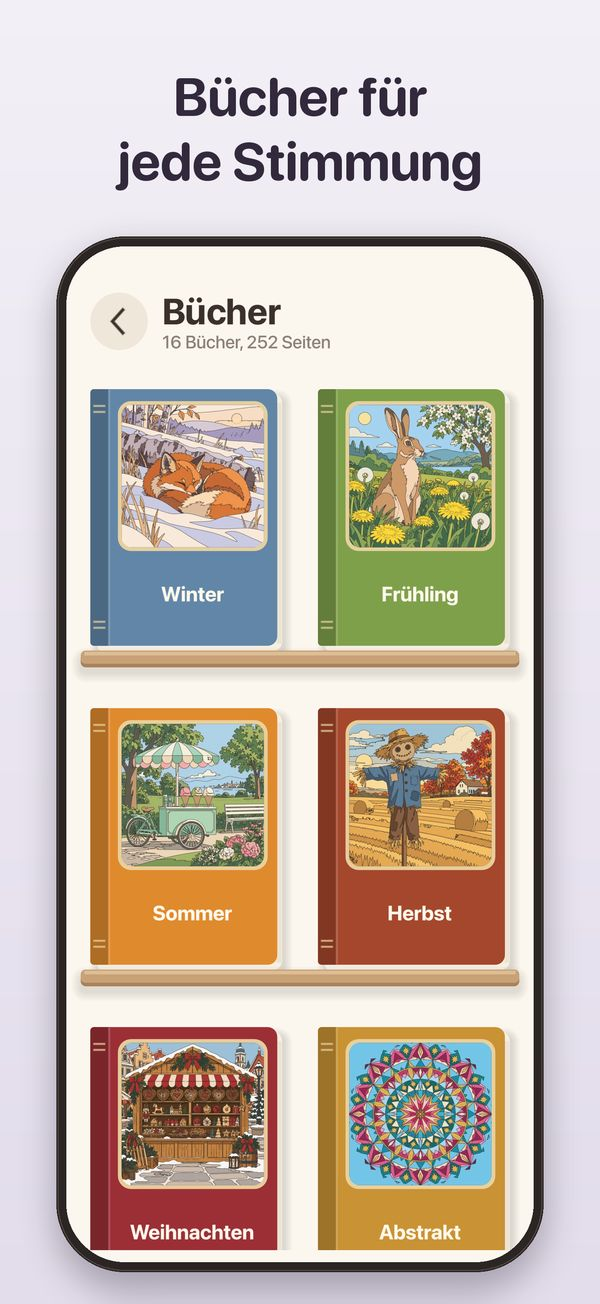
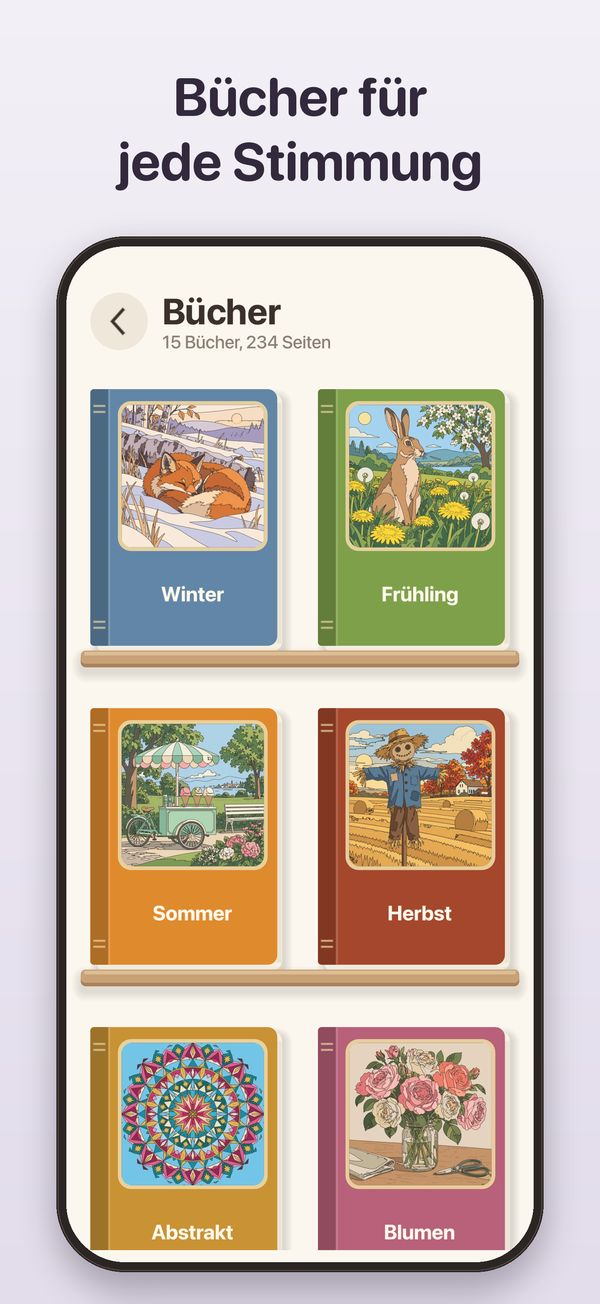
Advent calendar replaces the Christmas book: 15 books, new section and FAQ, new screenshots

diff --git a/de/index.html b/de/index.html
@@ -16,7 +16,7 @@
 <meta property="og:type" content="website">
 <meta property="og:site_name" content="Cavebeer Entertainment">
 <meta property="og:title" content="Colorwall: Cozy Coloring | Malen nach Zahlen ohne Werbung">
-<meta property="og:description" content="Malen nach Zahlen für Erwachsene, ganz ohne Werbung: realistische Motive in 16 Büchern, vier Gratis-Bücher zu den Jahreszeiten und jeden Tag ein neues Gratis-Bild.">
+<meta property="og:description" content="Malen nach Zahlen für Erwachsene, ganz ohne Werbung: realistische Motive in 15 Büchern, vier Gratis-Bücher zu den Jahreszeiten, jeden Tag ein neues Gratis-Bild und ein Adventskalender zum Ausmalen.">
 <meta property="og:url" content="https://mario-coder-apps.github.io/colorwall-legal/de/">
 <meta property="og:image" content="https://mario-coder-apps.github.io/colorwall-legal/de/og.jpg">
 <meta property="og:image:width" content="1200">
@@ -26,7 +26,7 @@
 <meta property="og:locale:alternate" content="en_US">
 <meta name="twitter:card" content="summary_large_image">
 <meta name="twitter:title" content="Colorwall: Cozy Coloring | Malen nach Zahlen ohne Werbung">
-<meta name="twitter:description" content="Malen nach Zahlen für Erwachsene, ganz ohne Werbung: realistische Motive in 16 Büchern, vier Gratis-Bücher zu den Jahreszeiten und jeden Tag ein neues Gratis-Bild.">
+<meta name="twitter:description" content="Malen nach Zahlen für Erwachsene, ganz ohne Werbung: realistische Motive in 15 Büchern, vier Gratis-Bücher zu den Jahreszeiten, jeden Tag ein neues Gratis-Bild und ein Adventskalender zum Ausmalen.">
 <meta name="twitter:image" content="https://mario-coder-apps.github.io/colorwall-legal/de/og.jpg">
 <meta name="twitter:image:alt" content="Das Colorwall-Icon und der Schriftzug neben drei iPhone-Screenshots">
 <!-- ld:start -->
@@ -40,11 +40,11 @@
  "operatingSystem": "iOS",
  "softwareRequirements": "iOS 17.0 oder neuer",
  "applicationCategory": "EntertainmentApplication",
- "description": "Colorwall ist Malen nach Zahlen ohne Werbung für Erwachsene auf dem iPhone: realistische, detailreiche Bilder in 16 Büchern, vier Gratis-Bücher zu den Jahreszeiten, jeden Tag ein Gratis-Bild und jede Woche ein größeres. Kein Konto, kein Tracking.",
+ "description": "Colorwall ist Malen nach Zahlen ohne Werbung für Erwachsene auf dem iPhone: realistische, detailreiche Bilder in 15 Büchern, vier Gratis-Bücher zu den Jahreszeiten, jeden Tag ein Gratis-Bild, jede Woche ein größeres und im Dezember ein Adventskalender zum Ausmalen, gratis. Kein Konto, kein Tracking.",
  "url": "https://mario-coder-apps.github.io/colorwall-legal/de/",
  "image": "https://mario-coder-apps.github.io/colorwall-legal/icon.png",
  "screenshot": [
-  "https://mario-coder-apps.github.io/colorwall-legal/img/de-fertig-weihnachtsmarkt-stand.jpg",
+  "https://mario-coder-apps.github.io/colorwall-legal/img/de-fertig-wintermarkt.jpg",
   "https://mario-coder-apps.github.io/colorwall-legal/img/de-malen-nach-zahlen-schmetterling-mandala.jpg",
   "https://mario-coder-apps.github.io/colorwall-legal/img/de-zoom-hochlandrind.jpg",
   "https://mario-coder-apps.github.io/colorwall-legal/img/de-aquarell-kolibri.jpg",
@@ -103,7 +103,15 @@
    "name": "Ist Colorwall kostenlos?",
    "acceptedAnswer": {
     "@type": "Answer",
-    "text": "Colorwall kannst du gratis laden. Die vier Jahreszeiten-Bücher (Winter, Frühling, Sommer und Herbst) sind komplett gratis, ebenso das erste leichte und das erste mittlere Bild jedes weiteren Buchs, jeden Tag ein neues Bild, das Bild der Woche und die Malstile Flach und Buntstift."
+    "text": "Colorwall kannst du gratis laden. Die vier Jahreszeiten-Bücher (Winter, Frühling, Sommer und Herbst) sind komplett gratis, ebenso das erste leichte und das erste mittlere Bild jedes weiteren Buchs, jeden Tag ein neues Bild, das Bild der Woche, der Adventskalender und die Malstile Flach und Buntstift."
+   }
+  },
+  {
+   "@type": "Question",
+   "name": "Ist der Adventskalender kostenlos?",
+   "acceptedAnswer": {
+    "@type": "Answer",
+    "text": "Ja. Der Adventskalender ist für alle gratis, ohne Colorwall Plus und ohne Buchkauf. Vom 1. bis 24. Dezember geht jeden Tag ein Türchen auf, ein verpasstes kannst du noch bis zum 6. Januar öffnen, und jedes Bild, das du öffnest, gehört für immer dir."
    }
   },
   {
@@ -223,7 +231,7 @@
 <section class="card" id="screenshots">
   <h2>Colorwall auf dem iPhone: Screenshots</h2>
   <ul class="shots">
-    <li><img src="../img/de-fertig-weihnachtsmarkt-stand.jpg" width="600" height="1304" loading="lazy" alt="Ein fertig ausgemalter Weihnachtsmarktstand mit den Knöpfen Zeitraffer, Aufhängen und Teilen"></li>
+    <li><img src="../img/de-fertig-wintermarkt.jpg" width="600" height="1304" loading="lazy" alt="Ein fertig ausgemalter Wintermarkt aus dem kostenlosen Winterbuch, mit den Knöpfen Zeitraffer, Aufhängen und Teilen"></li>
     <li><img src="../img/de-malen-nach-zahlen-schmetterling-mandala.jpg" width="600" height="1304" loading="lazy" alt="Ein Schmetterlings-Mandala, zur Hälfte nach Zahlen ausgemalt, darunter die nummerierte Farbpalette"></li>
     <li><img src="../img/de-zoom-hochlandrind.jpg" width="600" height="1304" loading="lazy" alt="Ein Hochlandrind, vierfach vergrößert: Die feinen Linien seiner Stirnlocke bleiben gestochen scharf"></li>
     <li><img src="../img/de-aquarell-kolibri.jpg" width="600" height="1304" loading="lazy" alt="Ein Kolibri an einer roten Hibiskusblüte im Malstil Aquarell"></li>
@@ -253,25 +261,39 @@
 </section>
 
 <section class="card" id="buecher">
-  <h2>16 Malbücher für Erwachsene</h2>
-  <p>252 Bilder in 16 Büchern, dazu ein Bild des Tages und ein Bild der Woche.</p>
+  <h2>15 Malbücher für Erwachsene</h2>
+  <p>234 Bilder in 15 Büchern, dazu ein Bild des Tages, ein Bild der Woche und im Dezember ein Adventskalender mit 24
+  weiteren.</p>
   <h3>Vier Gratis-Bücher zu den Jahreszeiten</h3>
   <p>Winter, Frühling, Sommer und Herbst sind komplett gratis, mit je neun Bildern von Leicht bis Schwer.</p>
-  <h3>Zwölf Themenbücher</h3>
-  <p>Weihnachten, Abstrakt, Botanik · Blumen, Botanik · Bäume, Landschaften, Japan, Tiere, Ozean, Mandalas, Gemütliche
-  Gassen, Café &amp; Süßes und Schneeflocken, mit je achtzehn Bildern. Das erste leichte und das erste mittlere Bild
+  <h3>Elf Themenbücher</h3>
+  <p>Abstrakt, Botanik · Blumen, Botanik · Bäume, Landschaften, Japan, Tiere, Ozean, Mandalas, Gemütliche Gassen,
+  Café &amp; Süßes und Schneeflocken, mit je achtzehn Bildern. Das erste leichte und das erste mittlere Bild
   jedes Buchs kannst du gratis ausprobieren.</p>
   <h3>Weihnachten und Winter ausmalen</h3>
-  <p>Im kostenlosen Winter-Buch warten heiße Schokolade, ein schlafender Fuchs und eine Berghütte. Das Weihnachtsbuch
-  bringt Lebkuchenhaus, Nussknacker und Dampfzug, und in Schneeflocken ist jede Seite eine große Schneeflocke, die du
-  wie ein Mandala ausmalst.</p>
+  <p>Im kostenlosen Winter-Buch warten heiße Schokolade, ein schlafender Fuchs und eine Berghütte, und in Schneeflocken
+  ist jede Seite eine große Schneeflocke, die du wie ein Mandala ausmalst. Im Dezember öffnet der kostenlose
+  <a href="#advent">Adventskalender</a> jeden Tag ein Türchen; dahinter warten unter anderem ein Lebkuchenhaus, ein
+  Nussknacker und ein Dampfzug.</p>
 </section>
 
 <section class="card" id="taeglich">
   <h2>Jeden Tag ein Gratis-Bild und jede Woche ein größeres</h2>
   <p>Jeden Tag wartet ein neues Bild auf dich, gratis: gemütliche Alltagsszenen wie Tee am Fenster oder eine Leseecke.
   Jede Woche kommt ein größeres Bild in Schwer dazu, etwa ein Großsegler. Öffnest du ein Bild an seinem Tag oder in
-  seiner Woche, gehört es für immer dir.</p>
+  seiner Woche, gehört es für immer dir. Vom 1. bis 24. Dezember tritt das Türchen des Adventskalenders an die Stelle
+  des Bilds des Tages.</p>
+</section>
+
+<section class="card" id="advent">
+  <h2>Adventskalender zum Ausmalen: hinter jedem Türchen ein Gratis-Bild</h2>
+  <p>Ab dem 24. November hängt ein Adventskalender auf deinem Startbildschirm, seine 24 Türchen noch geschlossen. Vom
+  1. bis 24. Dezember geht jeden Tag ein Türchen auf, nach dem Datum deines iPhones, und dahinter wartet ein Winter-
+  oder Weihnachtsbild zum Ausmalen: eine Schneeeule, ein Lebkuchenhaus, ein Weihnachtsmarktstand und am 24. ein
+  prächtiger Weihnachtsbaum mit Geschenken.</p>
+  <p>Die Bilder wachsen mit dem Advent: Türchen 1 bis 8 sind leicht, 9 bis 16 mittel und 17 bis 24 schwer. In diesen
+  Tagen tritt das Türchen des Tages an die Stelle des Bilds des Tages. Ein Türchen verpasst? Du kannst es noch bis zum
+  6. Januar öffnen, und jedes Bild, das du öffnest, gehört für immer dir. Der Adventskalender ist für alle gratis.</p>
 </section>
 
 <section class="card" id="malstile">
@@ -303,7 +325,11 @@
   <h3>Ist Colorwall kostenlos?</h3>
   <p>Colorwall kannst du gratis laden. Die vier Jahreszeiten-Bücher (Winter, Frühling, Sommer und Herbst) sind komplett
   gratis, ebenso das erste leichte und das erste mittlere Bild jedes weiteren Buchs, jeden Tag ein neues Bild, das Bild
-  der Woche und die Malstile Flach und Buntstift.</p>
+  der Woche, der Adventskalender und die Malstile Flach und Buntstift.</p>
+  <h3>Ist der Adventskalender kostenlos?</h3>
+  <p>Ja. Der Adventskalender ist für alle gratis, ohne Colorwall Plus und ohne Buchkauf. Vom 1. bis 24. Dezember geht
+  jeden Tag ein Türchen auf, ein verpasstes kannst du noch bis zum 6. Januar öffnen, und jedes Bild, das du öffnest,
+  gehört für immer dir.</p>
   <h3>Was enthält Colorwall Plus, und was kostet es?</h3>
   <p>Colorwall Plus öffnet alle Bücher und alle Malstile, auch Aquarell und Gemalt: 4,99 € im Monat, 29,99 € im Jahr
   mit 7 Tagen Gratis-Test für neue Abonnenten oder einmalig 59,99 € für immer. Der App Store zeigt dir den Preis in

diff --git a/index.html b/index.html
@@ -17,7 +17,7 @@
 <meta property="og:type" content="website">
 <meta property="og:site_name" content="Cavebeer Entertainment">
 <meta property="og:title" content="Colorwall: Cozy Coloring | Ad-free paint by number for iPhone">
-<meta property="og:description" content="Paint by number for adults, with no ads at all: realistic pictures in 16 books, four free season books and a new free picture every day.">
+<meta property="og:description" content="Paint by number for adults, with no ads at all: realistic pictures in 15 books, four free season books, a new free picture every day and a free Advent calendar.">
 <meta property="og:url" content="https://mario-coder-apps.github.io/colorwall-legal/">
 <meta property="og:image" content="https://mario-coder-apps.github.io/colorwall-legal/og.jpg">
 <meta property="og:image:width" content="1200">
@@ -27,7 +27,7 @@
 <meta property="og:locale:alternate" content="de_DE">
 <meta name="twitter:card" content="summary_large_image">
 <meta name="twitter:title" content="Colorwall: Cozy Coloring | Ad-free paint by number for iPhone">
-<meta name="twitter:description" content="Paint by number for adults, with no ads at all: realistic pictures in 16 books, four free season books and a new free picture every day.">
+<meta name="twitter:description" content="Paint by number for adults, with no ads at all: realistic pictures in 15 books, four free season books, a new free picture every day and a free Advent calendar.">
 <meta name="twitter:image" content="https://mario-coder-apps.github.io/colorwall-legal/og.jpg">
 <meta name="twitter:image:alt" content="The Colorwall icon and wordmark next to three iPhone screenshots">
 <!-- ld:start -->
@@ -41,11 +41,11 @@
  "operatingSystem": "iOS",
  "softwareRequirements": "iOS 17.0 or later",
  "applicationCategory": "EntertainmentApplication",
- "description": "Colorwall is an ad-free paint by number app for adults on iPhone: realistic, detailed pictures in 16 books, four free season books, a free picture every day and a bigger one every week. No account, no tracking.",
+ "description": "Colorwall is an ad-free paint by number app for adults on iPhone: realistic, detailed pictures in 15 books, four free season books, a free picture every day, a bigger one every week and a free Advent calendar in December. No account, no tracking.",
  "url": "https://mario-coder-apps.github.io/colorwall-legal/",
  "image": "https://mario-coder-apps.github.io/colorwall-legal/icon.png",
  "screenshot": [
-  "https://mario-coder-apps.github.io/colorwall-legal/img/en-finished-christmas-market-stall.jpg",
+  "https://mario-coder-apps.github.io/colorwall-legal/img/en-finished-winter-market.jpg",
   "https://mario-coder-apps.github.io/colorwall-legal/img/en-color-by-number-butterfly-mandala.jpg",
   "https://mario-coder-apps.github.io/colorwall-legal/img/en-zoom-highland-cow.jpg",
   "https://mario-coder-apps.github.io/colorwall-legal/img/en-watercolor-hummingbird.jpg",
@@ -104,7 +104,15 @@
    "name": "Is Colorwall free?",
    "acceptedAnswer": {
     "@type": "Answer",
-    "text": "Colorwall is free to download. The four season books (Winter, Spring, Summer and Autumn) are completely free, and so are the first Easy and the first Medium picture of every other book, a new picture every day, the picture of the week and the painting styles Flat and Colored pencil."
+    "text": "Colorwall is free to download. The four season books (Winter, Spring, Summer and Autumn) are completely free, and so are the first Easy and the first Medium picture of every other book, a new picture every day, the picture of the week, the Advent calendar and the painting styles Flat and Colored pencil."
+   }
+  },
+  {
+   "@type": "Question",
+   "name": "Is the Advent calendar free?",
+   "acceptedAnswer": {
+    "@type": "Answer",
+    "text": "Yes. The Advent calendar is free for everyone, without Colorwall Plus or a book purchase. From 1 to 24 December one door opens each day, a missed door can still be opened until 6 January, and every picture you open stays yours for good."
    }
   },
   {
@@ -223,7 +231,7 @@
 <section class="card" id="screenshots">
   <h2>Colorwall on iPhone: screenshots</h2>
   <ul class="shots">
-    <li><img src="img/en-finished-christmas-market-stall.jpg" width="600" height="1304" loading="lazy" alt="A finished Christmas market stall, with the buttons Timelapse, Hang it up and Share"></li>
+    <li><img src="img/en-finished-winter-market.jpg" width="600" height="1304" loading="lazy" alt="A finished winter market from the free Winter book, with the buttons Timelapse, Hang it up and Share"></li>
     <li><img src="img/en-color-by-number-butterfly-mandala.jpg" width="600" height="1304" loading="lazy" alt="A butterfly mandala half colored by number, with the numbered color palette below"></li>
     <li><img src="img/en-zoom-highland-cow.jpg" width="600" height="1304" loading="lazy" alt="A highland cow zoomed in four times: the fine lines of its fringe stay crisp"></li>
     <li><img src="img/en-watercolor-hummingbird.jpg" width="600" height="1304" loading="lazy" alt="A hummingbird at a red hibiscus flower in the Watercolor painting style"></li>
@@ -252,24 +260,36 @@
 </section>
 
 <section class="card" id="books">
-  <h2>16 coloring books for adults</h2>
-  <p>252 pictures in 16 books, plus a picture of the day and a picture of the week.</p>
+  <h2>15 coloring books for adults</h2>
+  <p>234 pictures in 15 books, plus a picture of the day, a picture of the week and, in December, an Advent calendar
+  with 24 more.</p>
   <h3>Four free season books</h3>
   <p>Winter, Spring, Summer and Autumn are completely free, with nine pictures each from Easy to Hard.</p>
-  <h3>Twelve themed books</h3>
-  <p>Christmas, Abstract, Botanical · Flowers, Botanical · Trees, Landscapes, Japan, Animals, Ocean, Mandalas, Cozy
-  Streets, Cafe &amp; Sweets and Snowflakes, with eighteen pictures each. The first Easy and the first Medium picture
+  <h3>Eleven themed books</h3>
+  <p>Abstract, Botanical · Flowers, Botanical · Trees, Landscapes, Japan, Animals, Ocean, Mandalas, Cozy Streets,
+  Cafe &amp; Sweets and Snowflakes, with eighteen pictures each. The first Easy and the first Medium picture
   of each are free to try.</p>
   <h3>Christmas and winter coloring</h3>
-  <p>The free Winter book has hot cocoa, a sleeping fox and a mountain hut. The Christmas book brings a gingerbread
-  house, a nutcracker and a steam train, and in Snowflakes every page is one big snowflake to color like a mandala.</p>
+  <p>The free Winter book has hot cocoa, a sleeping fox and a mountain hut, and in Snowflakes every page is one big
+  snowflake to color like a mandala. In December the free <a href="#advent">Advent calendar</a> opens a door a day,
+  with a gingerbread house, a nutcracker and a steam train among the pictures behind them.</p>
 </section>
 
 <section class="card" id="daily">
   <h2>A free picture every day and a bigger one every week</h2>
   <p>Every day a new picture waits for you, free: cozy everyday scenes like tea by the window or a reading nook. Every
   week brings a bigger Hard picture, such as a tall ship. Open a picture on its day or in its week, and it stays
-  yours for good.</p>
+  yours for good. From 1 to 24 December, the door of the Advent calendar takes the place of the picture of the day.</p>
+</section>
+
+<section class="card" id="advent">
+  <h2>Advent calendar coloring: a free picture behind every door</h2>
+  <p>From 24 November an Advent calendar hangs on your home screen, its 24 doors still closed. From 1 to 24 December
+  one door opens each day, by your iPhone's date, and behind it waits a winter or Christmas picture to color: a snowy
+  owl, a gingerbread house, a Christmas market stall and, on the 24th, a grand Christmas tree with presents.</p>
+  <p>The pictures grow with the season: doors 1 to 8 are Easy, 9 to 16 Medium and 17 to 24 Hard. During those days
+  the door of the day takes the place of the picture of the day. Missed a door? You can still open it until 6 January,
+  and every picture you open stays yours for good. The Advent calendar is free for everyone.</p>
 </section>
 
 <section class="card" id="styles">
@@ -301,7 +321,11 @@
   <h3>Is Colorwall free?</h3>
   <p>Colorwall is free to download. The four season books (Winter, Spring, Summer and Autumn) are completely free, and
   so are the first Easy and the first Medium picture of every other book, a new picture every day, the picture of the
-  week and the painting styles Flat and Colored pencil.</p>
+  week, the Advent calendar and the painting styles Flat and Colored pencil.</p>
+  <h3>Is the Advent calendar free?</h3>
+  <p>Yes. The Advent calendar is free for everyone, without Colorwall Plus or a book purchase. From 1 to 24 December
+  one door opens each day, a missed door can still be opened until 6 January, and every picture you open stays yours
+  for good.</p>
   <h3>What does Colorwall Plus include, and what does it cost?</h3>
   <p>Colorwall Plus opens every book and every painting style, including Watercolor and Painted: 4.99 EUR a month,
   29.99 EUR a year with a 7-day free trial for new subscribers, or 59.99 EUR once for a lifetime. The App Store shows

diff --git a/press/index.html b/press/index.html
@@ -52,18 +52,19 @@ footer{margin-top:52px;color:var(--soft);font-size:14px;border-top:1px solid var
   <div><dt>Platform</dt><dd>iPhone</dd></div>
   <div><dt>Release</dt><dd>Coming soon</dd></div>
   <div><dt>Price</dt><dd>Free to start</dd></div>
-  <div><dt>Books</dt><dd>EUR 2.99 each (12 books)</dd></div>
+  <div><dt>Books</dt><dd>EUR 2.99 each (11 books)</dd></div>
   <div><dt>Colorwall Plus</dt><dd>EUR 4.99 / month · EUR 29.99 / year (7-day free trial) · EUR 59.99 lifetime</dd></div>
   <div><dt>Advertising</dt><dd>None</dd></div>
   <div><dt>Account / tracking</dt><dd>None / none</dd></div>
   <div><dt>Languages</dt><dd>18</dd></div>
-  <div><dt>Pictures</dt><dd>252 in 16 books, plus a daily and a weekly picture</dd></div>
+  <div><dt>Pictures</dt><dd>295: 234 in 15 books, 25 daily, 12 weekly, 24 Advent</dd></div>
+  <div><dt>Advent calendar</dt><dd>24 doors, 1 to 24 December, free for everyone</dd></div>
   <div><dt>App Store</dt><dd><a href="https://apps.apple.com/app/id6830637527">apps.apple.com/app/id6830637527</a> (from release day)</dd></div>
   <div><dt>Contact</dt><dd><a href="mailto:mariohaesler@protonmail.com">mariohaesler@protonmail.com</a></dd></div>
 </dl>
 
 <h2>In one paragraph</h2>
-<p>Colorwall is a paint-by-numbers app for adults who want a quiet few minutes. It has no advertising at all (no banners, no videos between pictures), no account and no tracking. The pictures are realistic, detailed illustrations rather than cartoon pages, and every one is a vector page that stays crisp however far you zoom in. Four season books are free, along with a new picture every day and a bigger one every week.</p>
+<p>Colorwall is a paint-by-numbers app for adults who want a quiet few minutes. It has no advertising at all (no banners, no videos between pictures), no account and no tracking. The pictures are realistic, detailed illustrations rather than cartoon pages, and every one is a vector page that stays crisp however far you zoom in. Four season books are free, along with a new picture every day, a bigger one every week and, in December, an Advent calendar with a winter or Christmas picture behind each of its 24 doors.</p>
 
 <h2>Description</h2>
 <p>Many coloring apps pay for themselves with an ad after nearly every picture. Colorwall takes the other route: it is calm on purpose. Pick a picture, tap a number and fill it in area by area, with soft sounds and haptics and no timer. Or switch the numbers off and choose your own colors.</p>
@@ -82,19 +83,23 @@ footer{margin-top:52px;color:var(--soft);font-size:14px;border-top:1px solid var
   <li>Timelapse of every finished picture, ready to share</li>
   <li>A gallery wall for your finished pictures</li>
   <li>A free picture every day and a bigger one every week</li>
+  <li>A free Advent calendar: from 1 to 24 December a new winter or Christmas picture behind every door</li>
   <li>Six paper colors, 18 languages</li>
 </ul>
 
 <h2>Books</h2>
-<p>Four free season books with nine pictures each, and twelve themed books with eighteen pictures each. The first Easy and the first Medium picture of every themed book are free.</p>
+<p>Four free season books with nine pictures each, and eleven themed books with eighteen pictures each. The first Easy and the first Medium picture of every themed book are free.</p>
 <div class="books">
   <span class="free">Winter · free</span><span class="free">Spring · free</span><span class="free">Summer · free</span><span class="free">Autumn · free</span>
-  <span>Christmas</span><span>Abstract</span><span>Botanical · Flowers</span><span>Botanical · Trees</span><span>Landscapes</span><span>Japan</span><span>Animals</span><span>Ocean</span><span>Mandalas</span><span>Cozy Streets</span><span>Cafe &amp; Sweets</span><span>Snowflakes</span>
+  <span>Abstract</span><span>Botanical · Flowers</span><span>Botanical · Trees</span><span>Landscapes</span><span>Japan</span><span>Animals</span><span>Ocean</span><span>Mandalas</span><span>Cozy Streets</span><span>Cafe &amp; Sweets</span><span>Snowflakes</span>
 </div>
+
+<h2>Advent calendar</h2>
+<p>From 24 November an Advent calendar hangs on the home screen. From 1 to 24 December one door opens each day (by the device's date), with a winter or Christmas picture behind it: Easy from door 1 to 8, Medium from 9 to 16, Hard from 17 to 24, and on the 24th a grand Christmas tree with presents. During those days the door of the day takes the place of the picture of the day. Missed doors can still be opened until 6 January, every opened picture stays with the player for good, and the calendar is free for everyone.</p>
 
 <h2>Screenshots</h2>
 <div class="shots">
-  <a href="img/shot_01.jpg"><img src="img/shot_01.jpg" alt="A finished Christmas market stall with the timelapse and share buttons" loading="lazy"></a>
+  <a href="img/shot_01.jpg"><img src="img/shot_01.jpg" alt="A finished winter market from the free Winter book, with the timelapse and share buttons" loading="lazy"></a>
   <a href="img/shot_02.jpg"><img src="img/shot_02.jpg" alt="A butterfly mandala half colored, with numbers" loading="lazy"></a>
   <a href="img/shot_03.jpg"><img src="img/shot_03.jpg" alt="A highland cow zoomed in four times" loading="lazy"></a>
   <a href="img/shot_04.jpg"><img src="img/shot_04.jpg" alt="A hummingbird in the Watercolor style" loading="lazy"></a>
